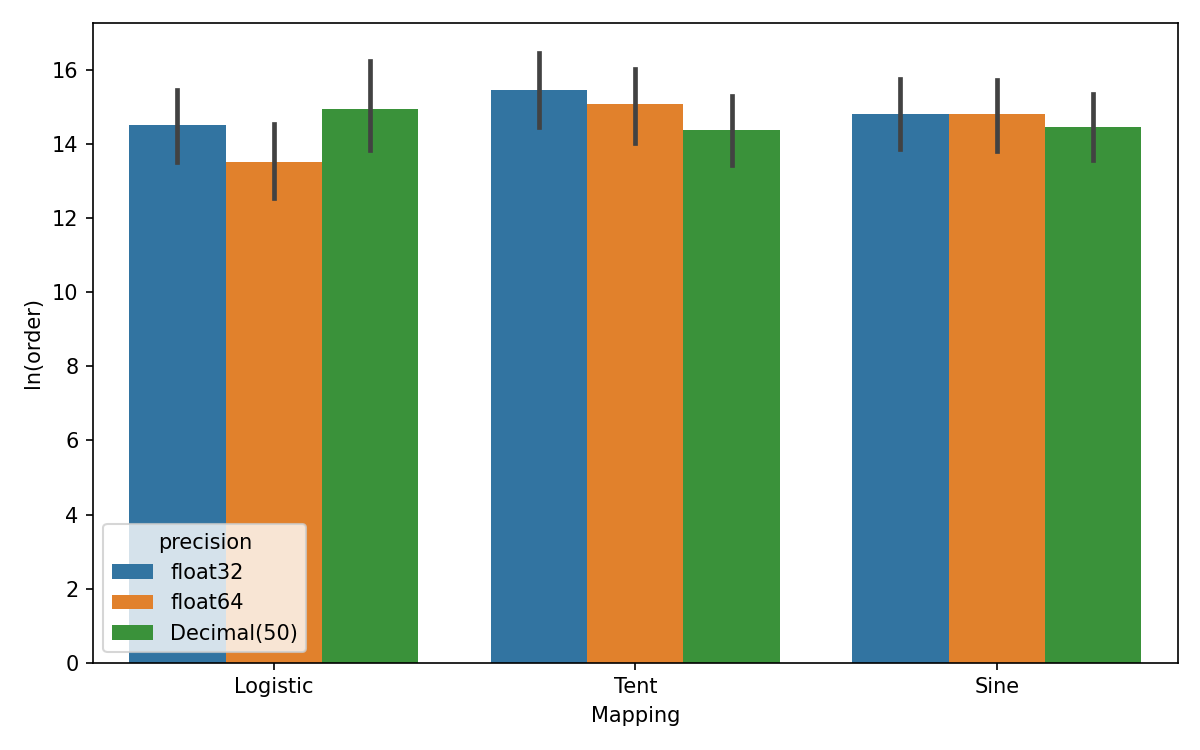
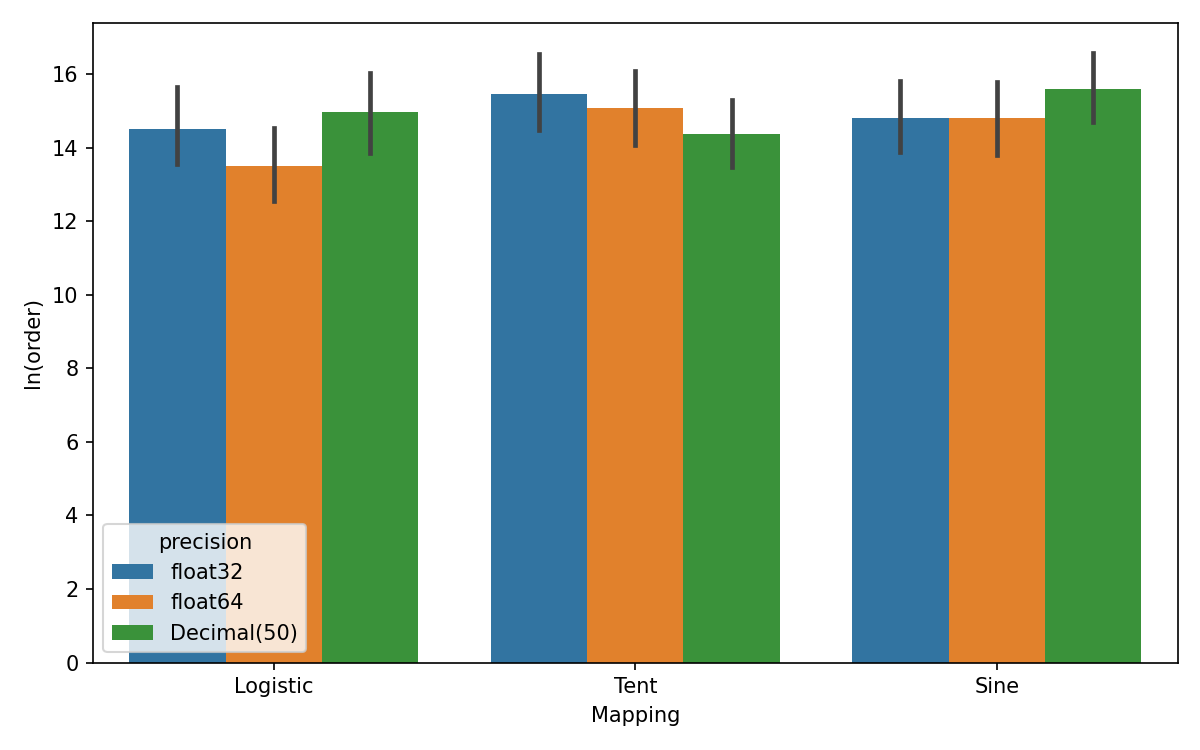
fix: add bijection check, fix Sine Decimal(50) via Taylor series, move pool outside loop, simplify ternary

diff --git a/src/analysis.py b/src/analysis.py
@@ -8,6 +8,22 @@ from concurrent.futures import ProcessPoolExecutor
 from src.maps import logistic, tent, chebyshev, sine, henon, WARMUP
 from src.permutation import generate_permutation, cycle_decomposition, permutation_order
 
+DECIMAL_PI = Decimal("3.14159265358979323846264338327950288419716939937510")
+
+def _decimal_sin(z: Decimal) -> Decimal:
+    prec = getcontext().prec
+    z2 = -z * z
+    term = z
+    result = z
+    k = 1
+    while True:
+        term = term * z2 / (Decimal(2 * k) * Decimal(2 * k + 1))
+        if abs(term) < Decimal(f"1e-{prec + 2}"):
+            break
+        result += term
+        k += 1
+    return result
+
 
 def _single_run(args):
     map_func, params, N, seed_pair = args
@@ -49,44 +65,44 @@ def _make_seed(map_func):
 
 def batch_avg_ln_order(map_func, params, N_list, num_seeds, warmup=1000):
     records = []
-    for N in N_list:
-        valid = []
-        attempts = 0
-        max_attempts = num_seeds * 5
-        while len(valid) < num_seeds and attempts < max_attempts:
-            batch_size = num_seeds - len(valid)
-            seeds = []
-            for _ in range(batch_size):
-                seed_val, _ = _make_seed(map_func)
-                if map_func is henon:
-                    seeds.append(seed_val)
-                else:
-                    seeds.append((seed_val, 0))
-            args_list = [(map_func, params, N, s) for s in seeds]
-            with ProcessPoolExecutor() as ex:
+    with ProcessPoolExecutor() as ex:
+        for N in N_list:
+            valid = []
+            attempts = 0
+            max_attempts = num_seeds * 5
+            while len(valid) < num_seeds and attempts < max_attempts:
+                batch_size = num_seeds - len(valid)
+                seeds = []
+                for _ in range(batch_size):
+                    seed_val, _ = _make_seed(map_func)
+                    if map_func is henon:
+                        seeds.append(seed_val)
+                    else:
+                        seeds.append((seed_val, 0))
+                args_list = [(map_func, params, N, s) for s in seeds]
                 batch_results = list(ex.map(_single_run, args_list))
-            valid.extend(r for r in batch_results if r is not None)
-            attempts += batch_size
+                valid.extend(r for r in batch_results if r is not None)
+                attempts += batch_size
 
-        if len(valid) < num_seeds:
-            raise RuntimeError(f"Only got {len(valid)}/{num_seeds} valid samples for N={N} after {max_attempts} attempts")
+            if len(valid) < num_seeds:
+                raise RuntimeError(f"Only got {len(valid)}/{num_seeds} valid samples for N={N} after {max_attempts} attempts")
 
-        valid = valid[:num_seeds]
-        ln_orders = [r[0] for r in valid]
-        max_ratios = [r[1] for r in valid]
-        cycle_counts = [r[2] for r in valid]
-        fixed_ratios = [r[3] for r in valid]
-        short_ratios = [r[4] for r in valid]
+            valid = valid[:num_seeds]
+            ln_orders = [r[0] for r in valid]
+            max_ratios = [r[1] for r in valid]
+            cycle_counts = [r[2] for r in valid]
+            fixed_ratios = [r[3] for r in valid]
+            short_ratios = [r[4] for r in valid]
 
-        records.append({
-            "N": N,
-            "avg_ln_order": float(np.mean(ln_orders)),
-            "std_ln_order": float(np.std(ln_orders)),
-            "avg_max_cycle_ratio": float(np.mean(max_ratios)),
-            "avg_cycle_count": float(np.mean(cycle_counts)),
-            "avg_fixed_point_ratio": float(np.mean(fixed_ratios)),
-            "avg_short_cycle_ratio": float(np.mean(short_ratios)),
-        })
+            records.append({
+                "N": N,
+                "avg_ln_order": float(np.mean(ln_orders)),
+                "std_ln_order": float(np.std(ln_orders)),
+                "avg_max_cycle_ratio": float(np.mean(max_ratios)),
+                "avg_cycle_count": float(np.mean(cycle_counts)),
+                "avg_fixed_point_ratio": float(np.mean(fixed_ratios)),
+                "avg_short_cycle_ratio": float(np.mean(short_ratios)),
+            })
     return pd.DataFrame(records)
 
 
@@ -167,10 +183,9 @@ def _precision_single(args):
                 xs.append(float(x))
         elif map_func is sine:
             r = Decimal(str(params.get("r", 0.99)))
+            pi = DECIMAL_PI
             for _ in range(n_total):
-                xf = float(x)
-                sin_val = math.sin(xf * math.pi)
-                x = r * Decimal(str(sin_val))
+                x = r * _decimal_sin(x * pi)
                 xs.append(float(x))
         else:
             raise ValueError(f"Decimal unsupported for {map_func}")

diff --git a/report/main.tex b/report/main.tex
@@ -470,9 +470,9 @@ Logistic 和 Chebyshev 的 DiffRate 达到 1.000（完全置换差异），
     \toprule
     映射 & float32 & float64 & Decimal(50) \\
     \midrule
-    Logistic & 10.81 & 10.39 & 11.63 \\
-    Tent & 11.92 & 12.05 & 11.47 \\
-    Sine & 12.37 & 11.79 & 12.28 \\
+    Logistic & 10.68 & 10.19 & 11.36 \\
+    Tent & 12.09 & 11.68 & 11.39 \\
+    Sine & 12.65 & 11.23 & 12.59 \\
     \bottomrule
   \end{tabular}
 \end{table}

diff --git a/src/permutation.py b/src/permutation.py
@@ -5,7 +5,10 @@ import numpy as np
 def generate_permutation(seq: np.ndarray) -> np.ndarray:
     if not np.all(np.isfinite(seq)):
         raise ValueError("Sequence contains NaN or Inf; map may have diverged")
-    return np.argsort(seq)
+    perm = np.argsort(seq)
+    if set(perm.tolist()) != set(range(len(seq))):
+        raise ValueError("Not a valid permutation; duplicate values in sequence")
+    return perm
 
 
 def cycle_decomposition(perm: np.ndarray) -> dict[int, int]:

diff --git a/main.py b/main.py
@@ -100,7 +100,7 @@ def main():
     print("[4/9] Running seed_avalanche ...")
     avalanche_records = []
     for name, (func, params) in MAP_CONFIGS.items():
-        seed = (-0.5, 0.2) if func is henon else (0.3 if func is chebyshev else 0.3)
+        seed = (-0.5, 0.2) if func is henon else 0.3
         result = seed_avalanche(func, params, 1024, seed)
         result["mapping"] = name
         avalanche_records.append(result)